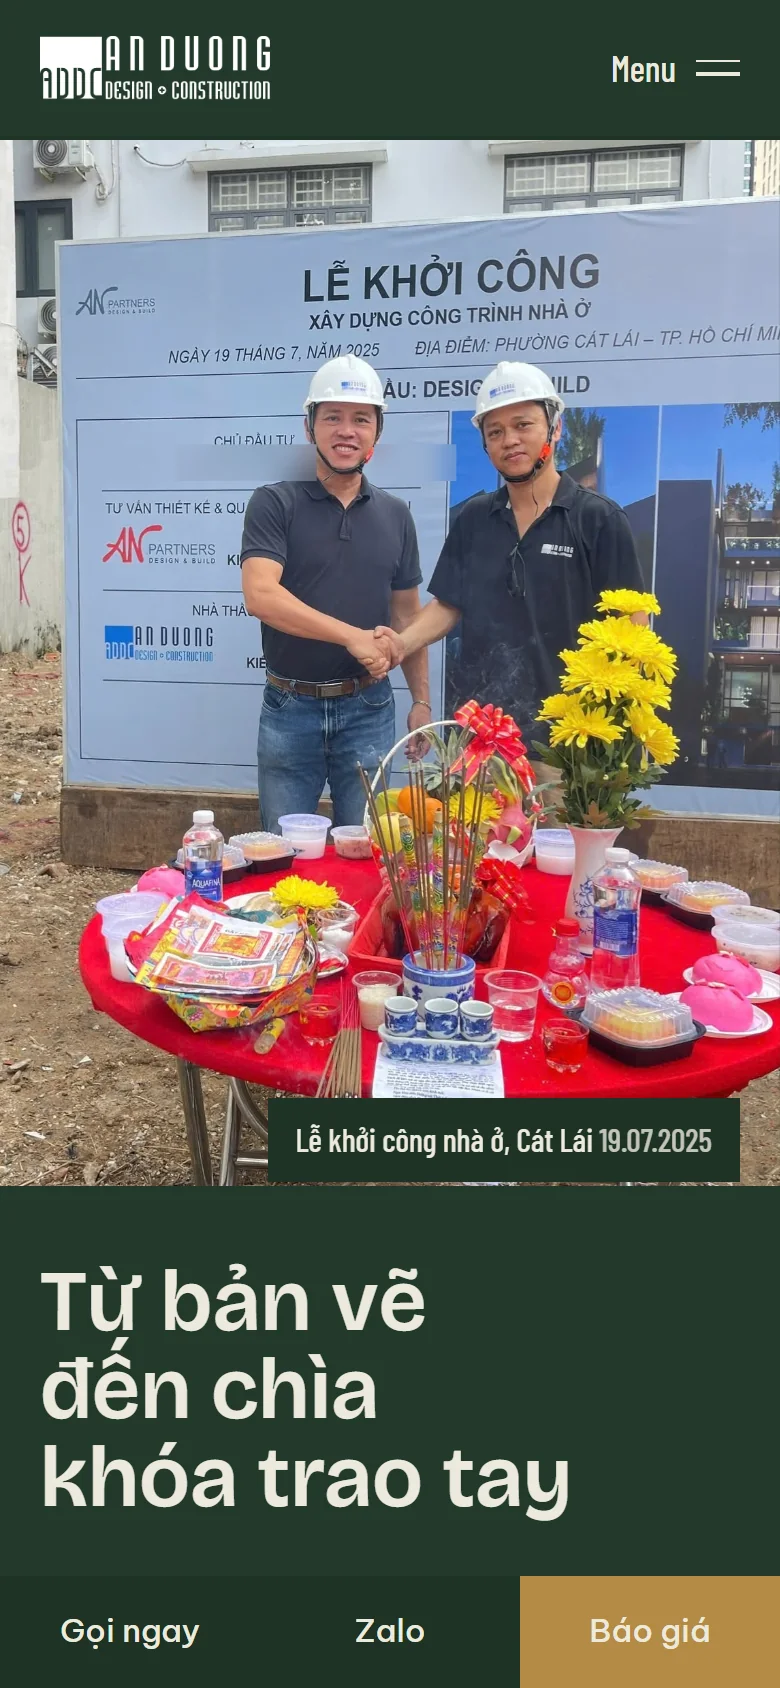
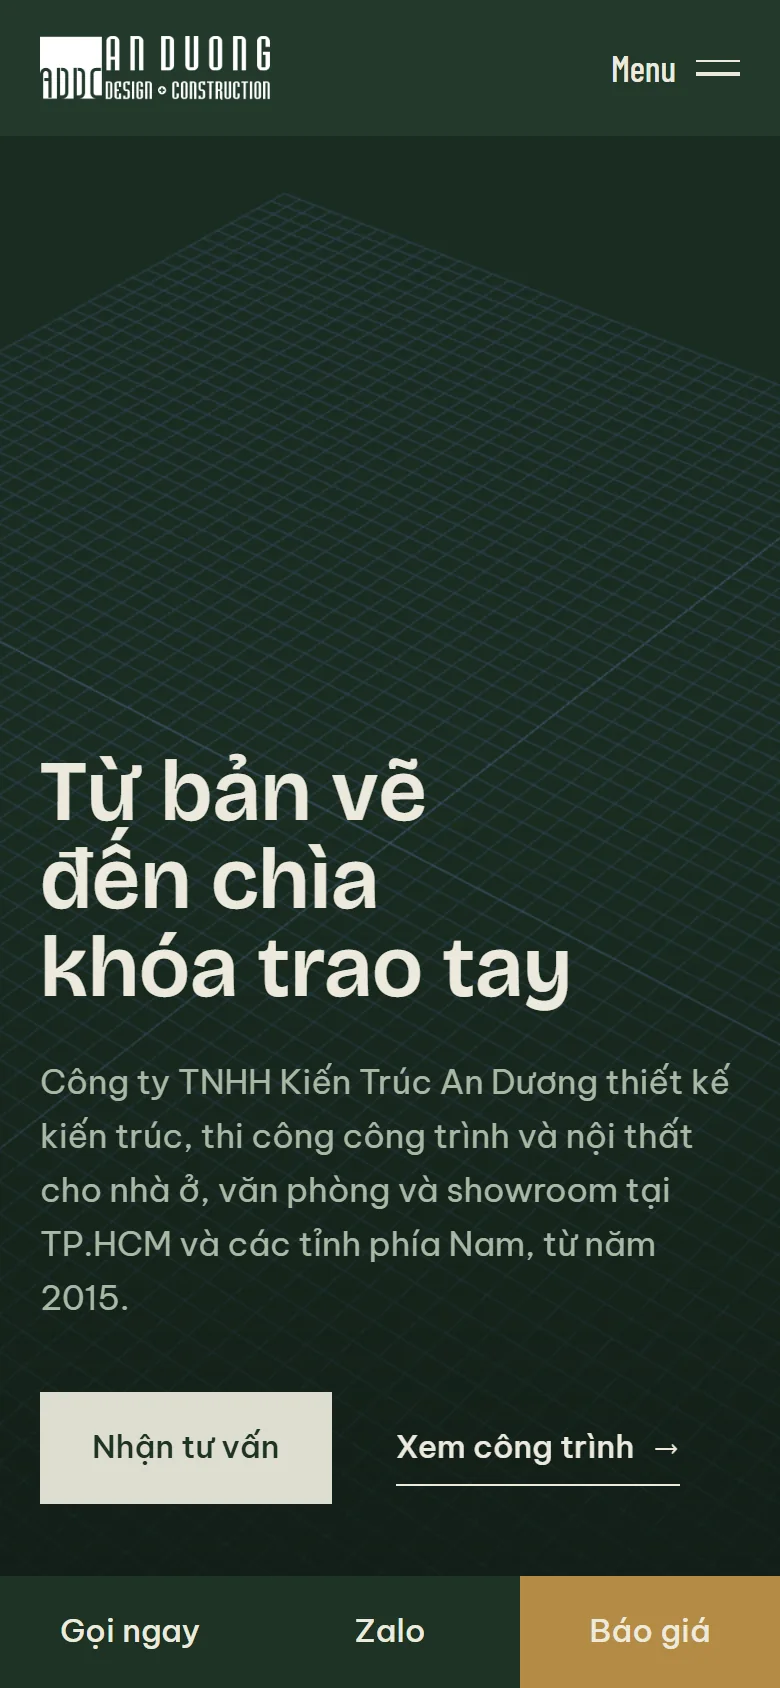
Work, ADDC: the new 3D opening in the before-and-after, the card and the screens
The ADDC site's first screen is now its 3D build. The before-and-after shows it; the card and the
register use the house going up; three frames of the flight replace the old journey plate.

diff --git a/src/text/projects/addc.ts b/src/text/projects/addc.ts
@@ -38,8 +38,8 @@ export const addcPage = {
 			phone: "The old addc.vn home page on a phone: a small slider photo and a heading for the company's fields of work.",
 		},
 		afterAlt: {
-			desktop: "The new ADDC home page on a desktop: two men in hard hats shake hands at a groundbreaking, beside the headline 'Từ bản vẽ đến chìa khóa trao tay'.",
-			phone: "The new ADDC home page on a phone: the groundbreaking photo above the headline, with call, Zalo and quote buttons along the bottom.",
+			desktop: "The new ADDC home page on a desktop: the headline 'Từ bản vẽ đến chìa khóa trao tay' over a 3D view of an empty plot, where the house goes up as the visitor scrolls.",
+			phone: "The new ADDC home page on a phone: the headline over the 3D plot, with call, Zalo and quote buttons along the bottom.",
 		},
 	},
 
@@ -71,7 +71,9 @@ export const addcPage = {
 		intro: "Every screen below is the live site.",
 		items: [
 			{ src: "/work/addc/loader.webp", alt: "The loader: a counter at 87 and a photo of a finished living room in a window, captioned 'Hoàn thiện'." },
-			{ src: "/work/addc/journey.webp", alt: "The home page's build story: a townhouse going up in 3D as the visitor scrolls, beside the step 'Thi công có giám sát'." },
+			{ src: "/work/addc/hook-plan.webp", alt: "The first screen, scrolled: the house drawn in 3D lines over the plot, with the words 'Bản vẽ thành hình'." },
+			{ src: "/work/addc/hook-build.webp", alt: "Further down the same screen: the townhouse going up, scaffolding and netting on its face, with the words 'Từng tầng được dựng lên'." },
+			{ src: "/work/addc/hook-inside.webp", alt: "At the end of the flight the camera is inside: the finished living room, with the words 'Và bước vào nhà'." },
 			{ src: "/work/addc/blueprint.webp", alt: "The architecture page: the house as a line drawing in 3D, with its view, finish and facade colour to choose." },
 			{ src: "/work/addc/materials.webp", alt: "The construction page's materials: a concrete column with steel starter bars in 3D, beside its specification." },
 			{ src: "/work/addc/price.webp", alt: "The price tables and a quick estimate: choose the service and the floor area, and the cost is worked out at once." },

diff --git a/src/text/work.ts b/src/text/work.ts
@@ -79,7 +79,7 @@ export const register = {
 		addc: {
 			discipline: "Web design & rebuild",
 			revision: "Version 2, live",
-			picture: { src: "/work/addc/after-desktop.webp", alt: "The new ADDC home page: two men in hard hats shake hands at a groundbreaking, beside the headline 'Từ bản vẽ đến chìa khóa trao tay'", fit: "cover" },
+			picture: { src: "/work/addc/hook-build.webp", alt: "The new ADDC home page: a townhouse going up in 3D, scaffolding and safety netting on its face, with the words 'Từng tầng được dựng lên'", fit: "cover" },
 		},
 	} as Record<string, { discipline: string; revision: string; picture: { src: string; alt: string; fit: "cover" | "contain" } }>,
 };

diff --git a/src/text/projects/addc.md b/src/text/projects/addc.md
@@ -1,7 +1,7 @@
 ---
 title: ADDC website
-img: /work/addc/after-desktop.webp
-img_alt: "The new ADDC home page: two men in hard hats shake hands at a groundbreaking, beside the headline 'Từ bản vẽ đến chìa khóa trao tay'"
+img: /work/addc/hook-build.webp
+img_alt: "The new ADDC home page: a townhouse going up in 3D, scaffolding and safety netting on its face, with the words 'Từng tầng được dựng lên'"
 badge: Live
 description: |
   A construction and interior firm in Ho Chi Minh City, rebuilt for the web: a site that shows a house going up as you
@@ -27,7 +27,8 @@ The new site splits ADDC's work the way clients think about it: architecture (Ki
 
 ## Built to feel finished
 
-- A loader that tells the company's story in four photos (drawing, site, finished room, groundbreaking) while the page really loads, and opens into the first picture.
+- The first screen is the house itself: scroll, and a 3D townhouse is surveyed, drawn, built floor by floor and entered, one short line of words at each stage.
+- A loader that tells the company's story in four photos (drawing, site, finished room, groundbreaking) while the page really loads, then opens onto that 3D scene.
 - Every picture can be opened large, growing out of its own spot.
 - Titles rise into place, photos wait in a dark frame instead of a pale card, and the 3D is prepared before it is seen, so scrolling stays smooth.
 - 31 3D models of the materials and furniture ADDC works with: concrete, steel, brick, stone, timber, tiles, a townhouse in seven stages and the rooms inside it.
